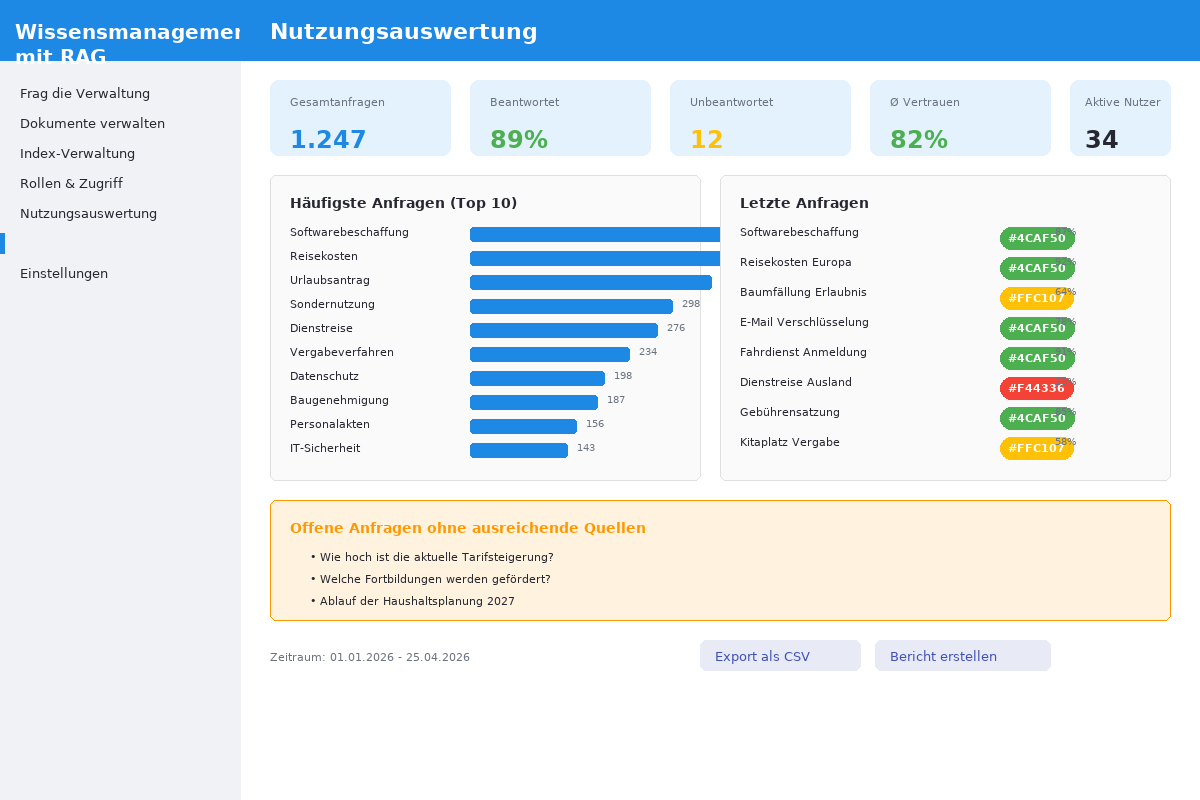
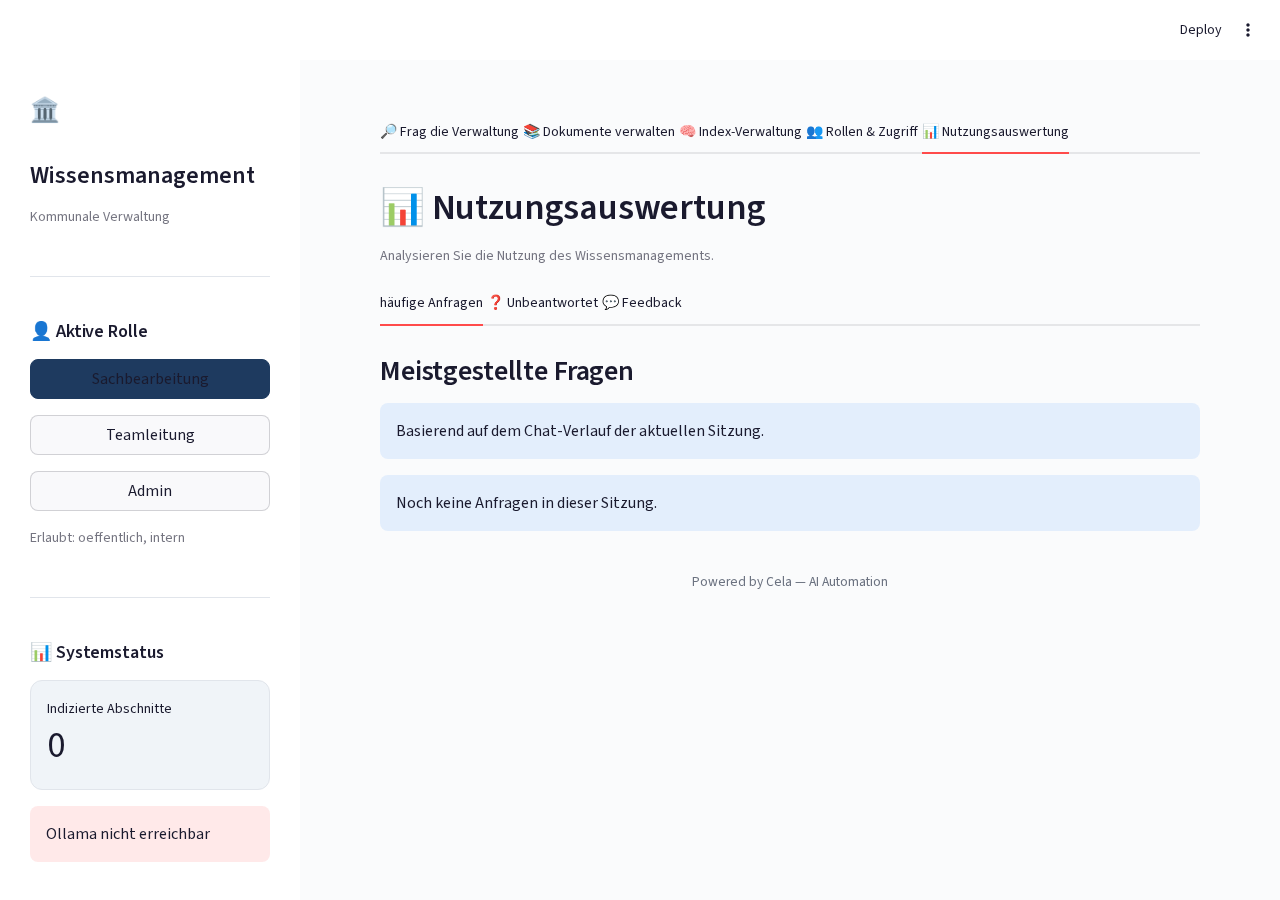
Update screenshots - new unified theme

diff --git a/theme/__init__.py b/theme/__init__.py
@@ -85,7 +85,7 @@ def theme_toggle_sidebar():
                 st.session_state.cela_theme = "light"
                 st.rerun()
         with c2:
-            if st.button("\ud83c\udf19 Dark", use_container_width=True,
+            if st.button("🌙 Dark", use_container_width=True,
                          type="primary" if get_theme() == "dark" else "secondary"):
                 st.session_state.cela_theme = "dark"
                 st.rerun()

diff --git a/app.py b/app.py
@@ -66,7 +66,7 @@ def initialisiere_komponenten():
 def zeige_sidebar():
     """Zeigt die Seitenleiste mit Rolle und Systeminfo."""
     with st.sidebar:
-        st.image("🏛", width=80)
+        st.markdown("# 🏛")
         st.title("Wissensmanagement")
         st.caption("Kommunale Verwaltung")
 
